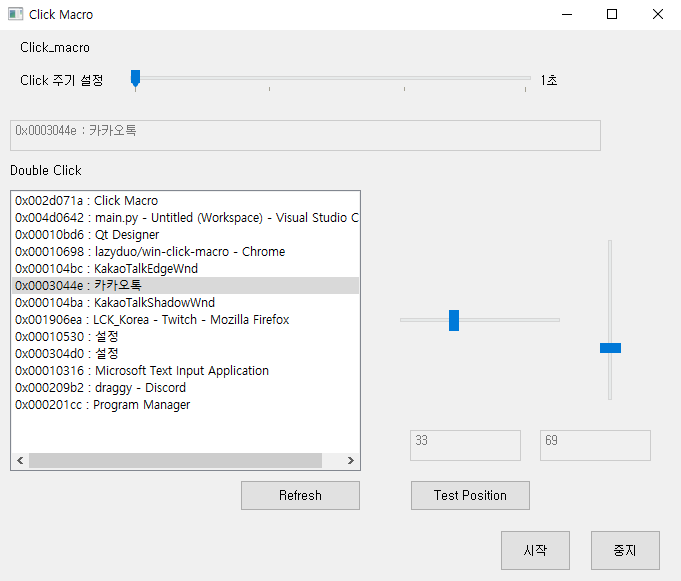
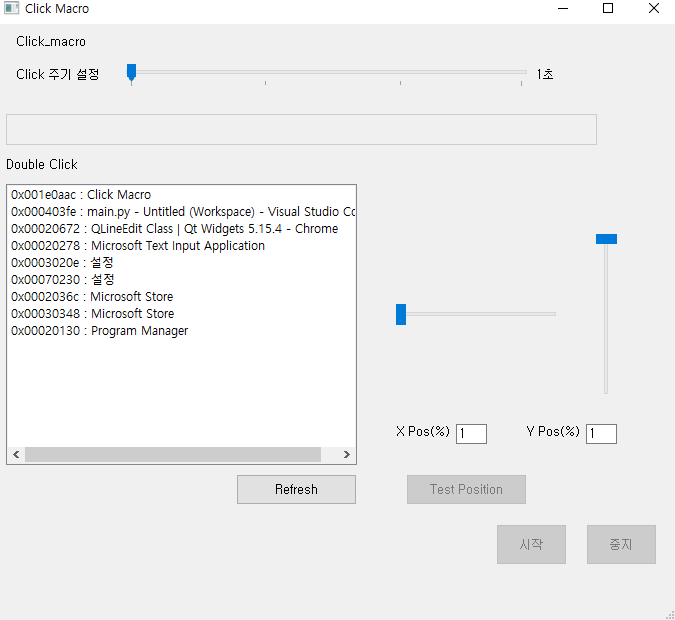
update

diff --git a/README.md b/README.md
@@ -1,12 +1,17 @@
 # Click Macro for Window
 
-(Not Yet)
-
 타겟 프로그램(Window)를 설정하고, 해당 프로그램 안에서 원하는 위치에 클릭 이벤트를 발생시킵니다.
 
 다른 업무를 수행 중이더라도 잠깐 타겟 프로그램을 ForeGround로 보내 클릭 후 다시 원래의 Window로 돌아갑니다.
 
 스크롤바를 통해 상대적 위치를 직관적으로 설정할 수 있으며, 설정 위치를 'Test Position'으로 확인 할 수 있습니다.
+
+- 2021-05-16 update
+
+    - Macro 시작 / 중지 기능 정상화 (thread)
+    - 버튼 enable / disable 처리 디테일
+    - X / Y Position Slide 입력 기능 추가
+
 
 ![sample image](sample.png)
 
@@ -17,7 +22,7 @@
 
 # Memo & TODO
 
-- 21-05-12
+- 21-05-12 (clear)
 
 class가 "ApplicationFrameWindow"인 '계산기' 등의 프로그램은 FindWindow 할 시에 반드시 class를 지정해 주어야함.
 
@@ -26,7 +31,7 @@ class가 "ApplicationFrameWindow"인 '계산기' 등의 프로그램은 FindWind
 hwnd 문제 때문에 get_window_title로 모든 title을 받아서 select하여 설정하는 방식으로 구현 할 것.
 
 
-- 21-05-13
+- 21-05-13 (clear)
  
 gui class, window control class, main 기본 연결 완료.
 
@@ -39,11 +44,15 @@ adjustment 버튼 클릭 -> 마우스 움직일 때 마다 좌표 업로드. 클
 
 sequence 만들기. 클릭, 엔터, 타이핑 등의 sequence를 추가하여 run 할 수 있도록 구현
 
-- 21-05-15 TODO
+- 21-05-15 TODO (clear)
 
 thread 시작->중지 가능. 현재는 5번만 반복.
 
 test position 업데이트. click macro 동작 확인.
+
+- 21-05-16 TODO
+
+설정 값 기억 (config.yaml)
 
 <br>
 
